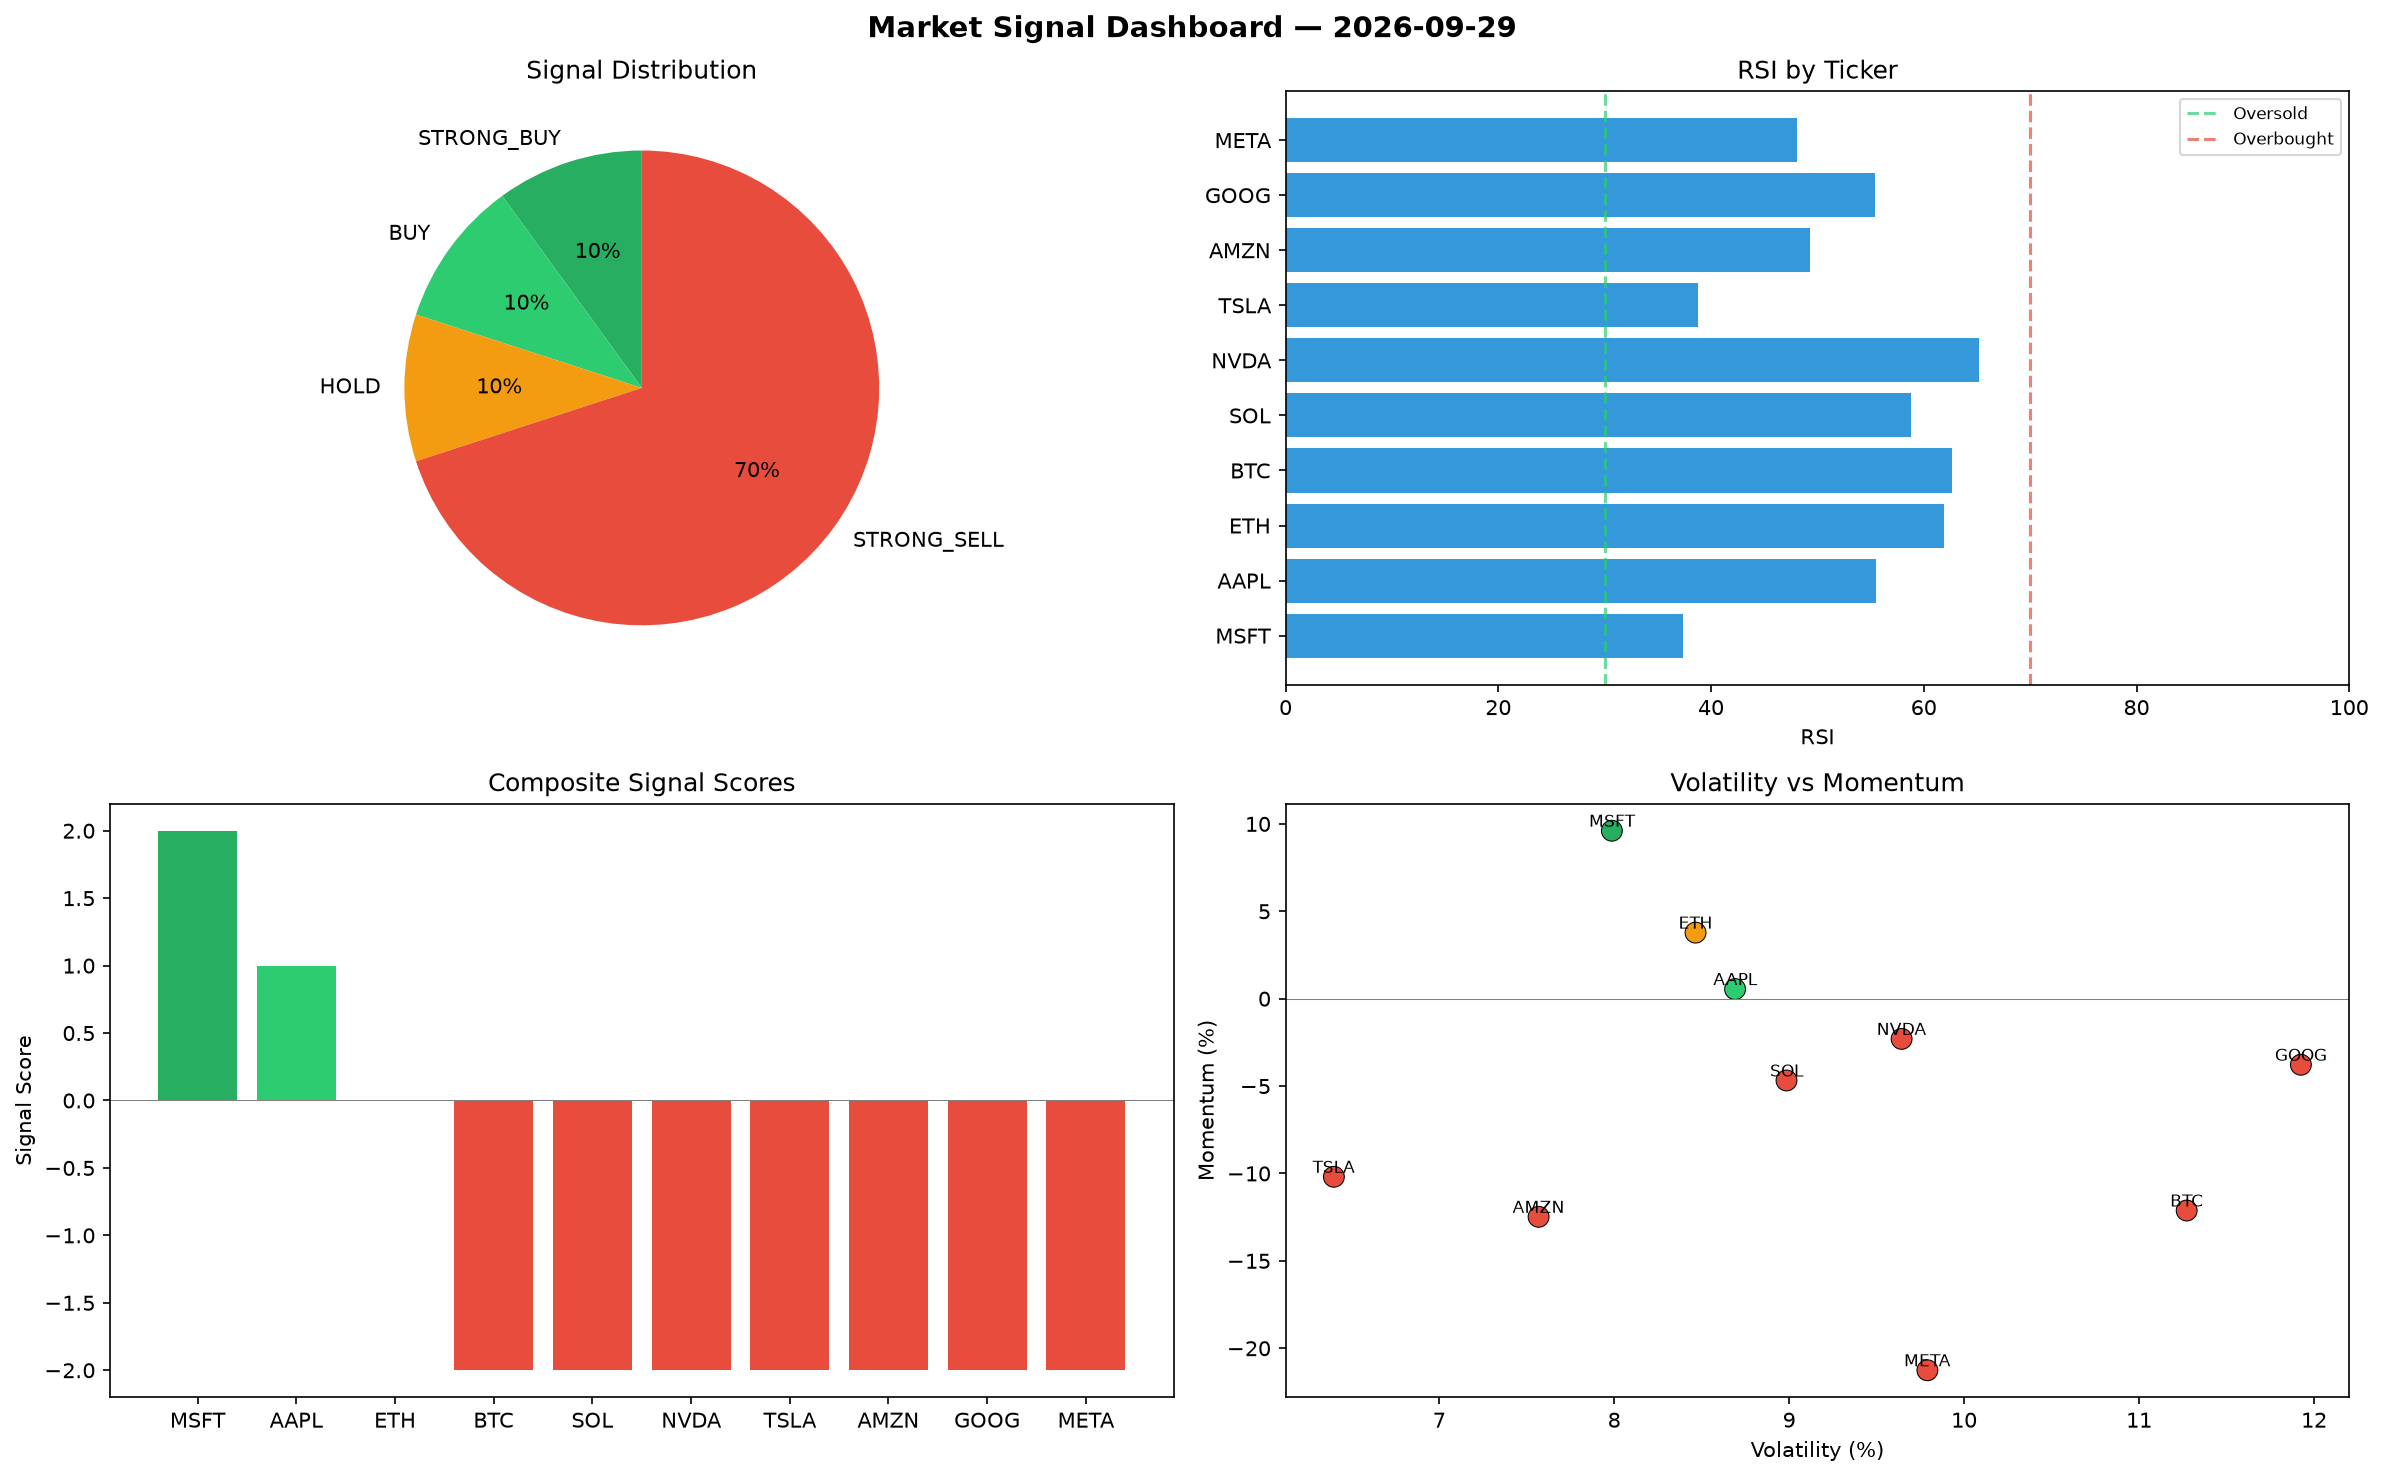
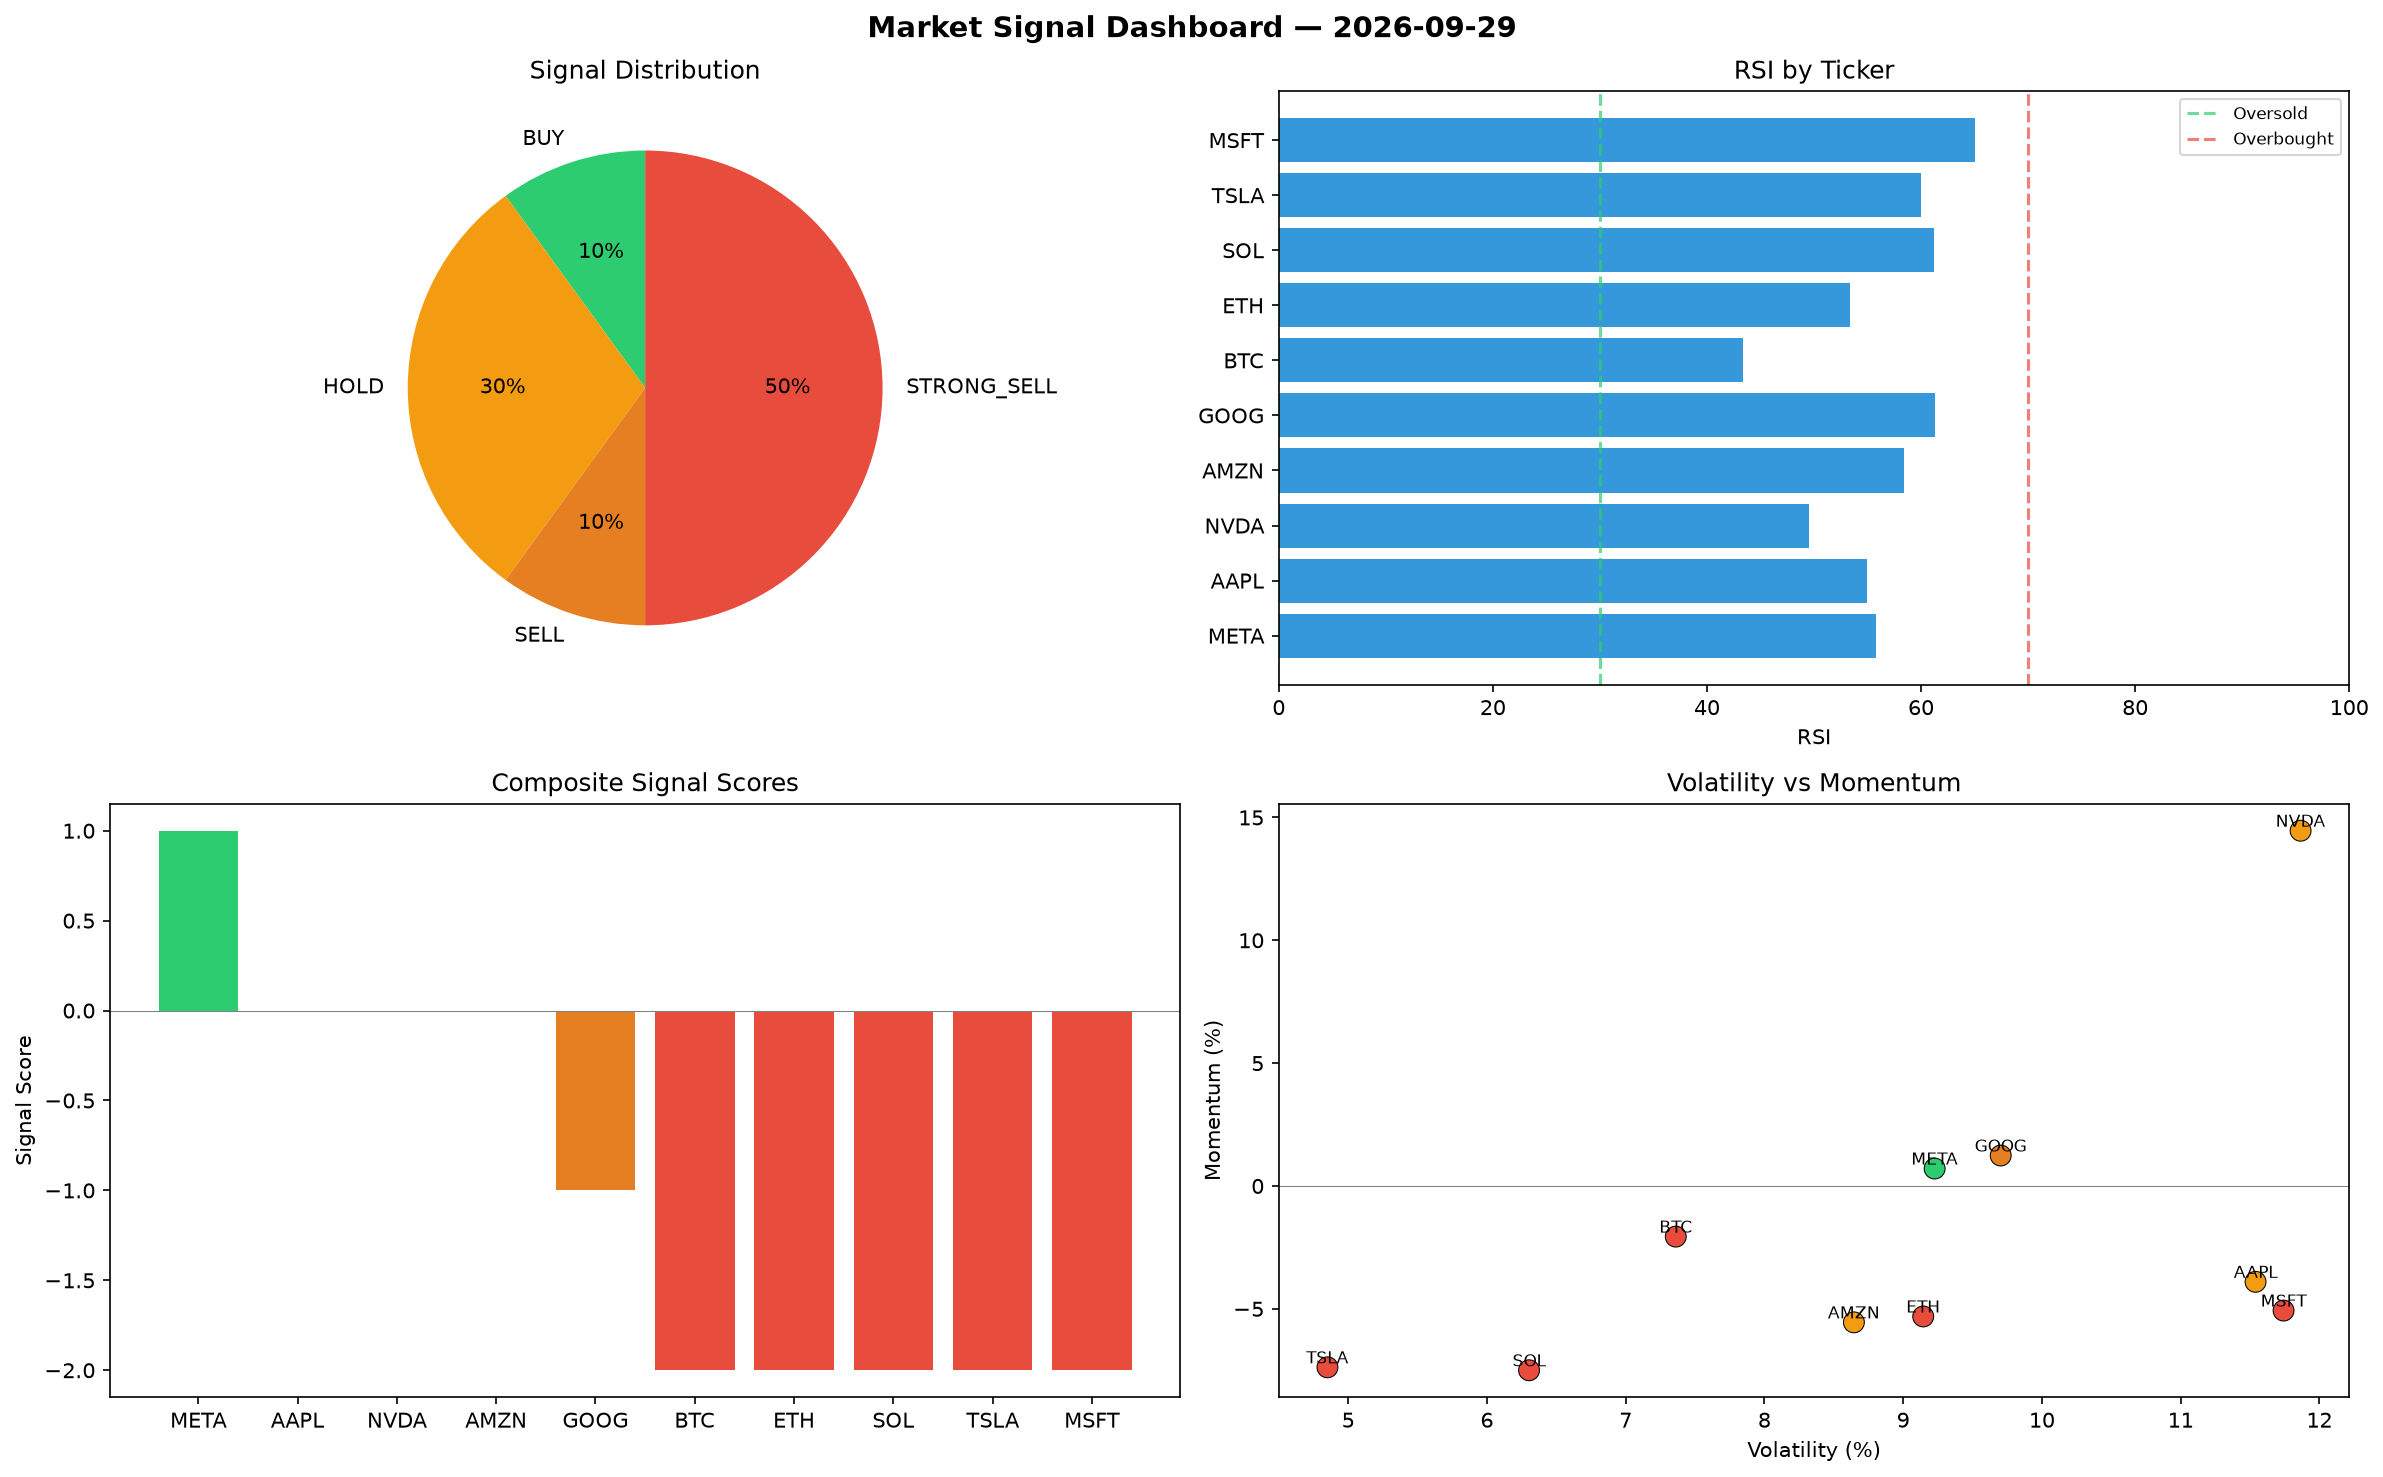
automated-bots: market signals 2026-09-29T19:34

diff --git a/logs/2026-09-29.md b/logs/2026-09-29.md
@@ -1,6 +1,6 @@
 # Market Signal Report — 2026-09-29
 
-**Run ID:** `bca7a48b56` | **Buy:** 2 | **Sell:** 7 | **Hold:** 1
+**Run ID:** `6dfd5bd2f6` | **Buy:** 1 | **Sell:** 6 | **Hold:** 3
 
 ![Dashboard](2026-09-29_dashboard.png)
 
@@ -8,28 +8,28 @@
 
 | Ticker | Price | Signal | Score | RSI | Momentum | Confidence |
 |--------|-------|--------|-------|-----|----------|------------|
-| MSFT | $3428.11 | **STRONG_BUY** | 2 | 37.4 | 0.0961 | 0.5 |
-| AAPL | $763.62 | **BUY** | 1 | 55.5 | 0.0055 | 0.25 |
-| ETH | $878.72 | **HOLD** | 0 | 61.93 | 0.0378 | 0.0 |
-| BTC | $4230.26 | **STRONG_SELL** | -2 | 62.65 | -0.1212 | 0.5 |
-| SOL | $715.09 | **STRONG_SELL** | -2 | 58.82 | -0.0468 | 0.5 |
-| NVDA | $3184.59 | **STRONG_SELL** | -2 | 65.2 | -0.023 | 0.5 |
-| TSLA | $2846.35 | **STRONG_SELL** | -2 | 38.8 | -0.1019 | 0.5 |
-| AMZN | $944.06 | **STRONG_SELL** | -2 | 49.3 | -0.1248 | 0.5 |
-| GOOG | $545.11 | **STRONG_SELL** | -2 | 55.45 | -0.0378 | 0.5 |
-| META | $792.8 | **STRONG_SELL** | -2 | 48.07 | -0.2126 | 0.5 |
+| META | $2485.67 | **BUY** | 1 | 55.77 | 0.0071 | 0.25 |
+| AAPL | $4622.0 | **HOLD** | 0 | 54.99 | -0.039 | 0.0 |
+| NVDA | $1990.92 | **HOLD** | 0 | 49.57 | 0.1446 | 0.0 |
+| AMZN | $550.42 | **HOLD** | 0 | 58.41 | -0.0555 | 0.0 |
+| GOOG | $389.85 | **SELL** | -1 | 61.29 | 0.0124 | 0.25 |
+| BTC | $733.54 | **STRONG_SELL** | -2 | 43.39 | -0.0206 | 0.5 |
+| ETH | $4038.46 | **STRONG_SELL** | -2 | 53.4 | -0.0531 | 0.5 |
+| SOL | $1103.13 | **STRONG_SELL** | -2 | 61.21 | -0.075 | 0.5 |
+| TSLA | $1770.41 | **STRONG_SELL** | -2 | 59.99 | -0.0738 | 0.5 |
+| MSFT | $3496.9 | **STRONG_SELL** | -2 | 65.07 | -0.0507 | 0.5 |
 
 ## Delta vs Yesterday
 
 | Ticker | Today | Yesterday | Price Change | Signal Changed |
 |--------|-------|-----------|-------------|----------------|
-| MSFT | STRONG_BUY | HOLD | 📈 48.64% | ⚠ YES |
-| AAPL | BUY | HOLD | 📉 -54.53% | ⚠ YES |
-| ETH | HOLD | BUY | 📉 -76.14% | ⚠ YES |
-| BTC | STRONG_SELL | STRONG_BUY | 📈 251.94% | ⚠ YES |
-| SOL | STRONG_SELL | STRONG_SELL | 📈 360.25% | — |
-| NVDA | STRONG_SELL | STRONG_SELL | 📈 119.78% | — |
-| TSLA | STRONG_SELL | HOLD | 📈 95.7% | ⚠ YES |
-| AMZN | STRONG_SELL | STRONG_BUY | 📉 -56.21% | ⚠ YES |
-| GOOG | STRONG_SELL | STRONG_BUY | 📉 -88.64% | ⚠ YES |
-| META | STRONG_SELL | BUY | 📉 -80.61% | ⚠ YES |
+| META | BUY | BUY | 📉 -39.2% | — |
+| AAPL | HOLD | HOLD | 📈 175.25% | — |
+| NVDA | HOLD | STRONG_SELL | 📈 37.4% | ⚠ YES |
+| AMZN | HOLD | STRONG_BUY | 📉 -74.47% | ⚠ YES |
+| GOOG | SELL | STRONG_BUY | 📉 -91.87% | ⚠ YES |
+| BTC | STRONG_SELL | STRONG_BUY | 📉 -38.97% | ⚠ YES |
+| ETH | STRONG_SELL | BUY | 📈 9.67% | ⚠ YES |
+| SOL | STRONG_SELL | STRONG_SELL | 📈 610.0% | — |
+| TSLA | STRONG_SELL | HOLD | 📈 21.72% | ⚠ YES |
+| MSFT | STRONG_SELL | HOLD | 📈 51.62% | ⚠ YES |
